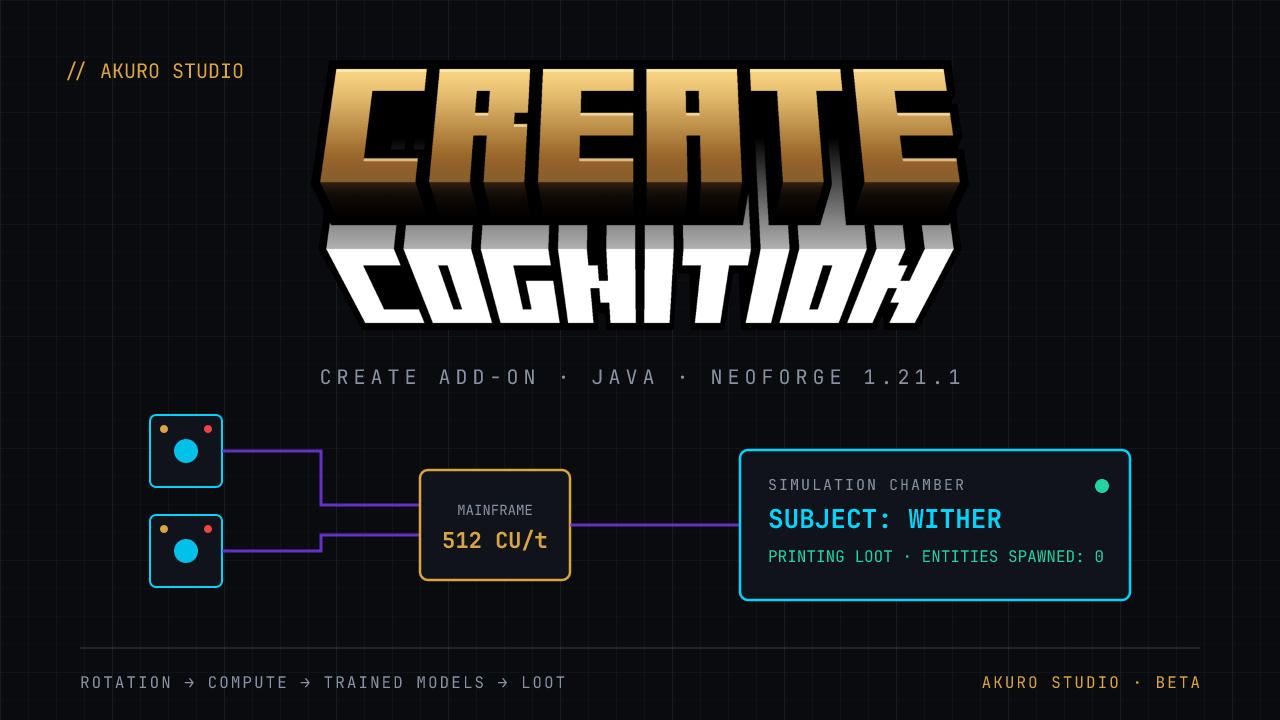
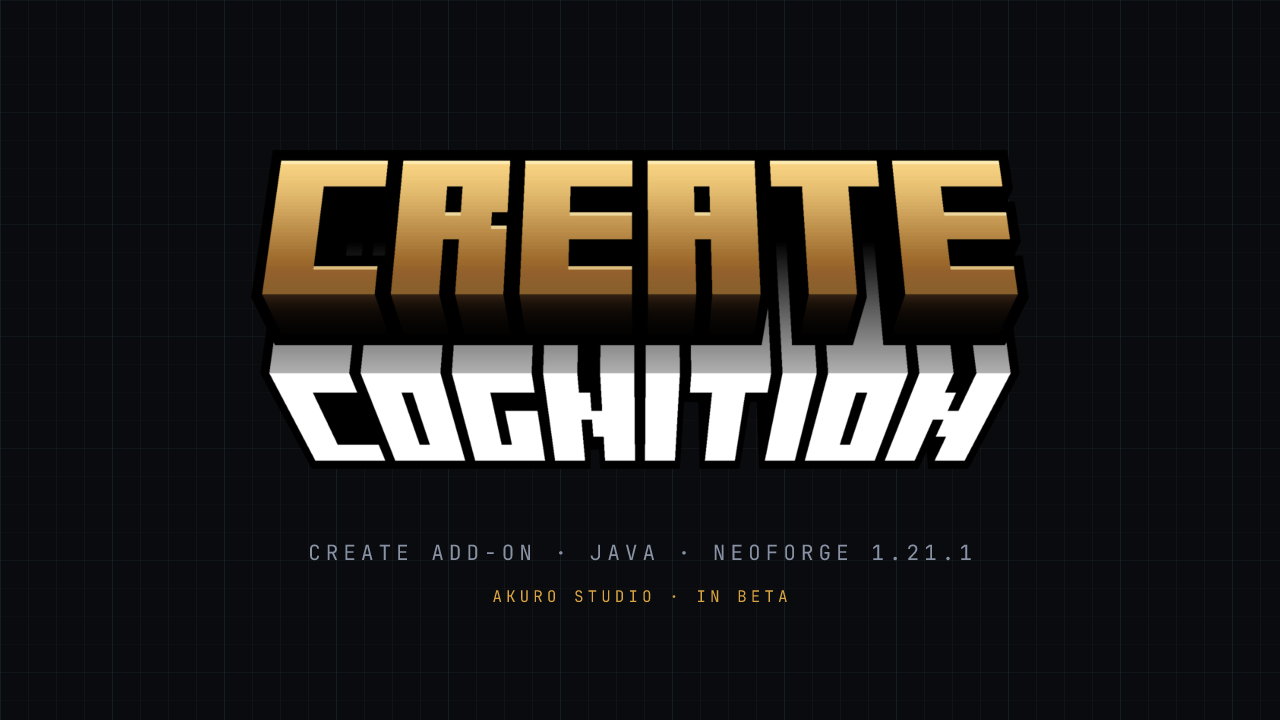
Drop invented card imagery; real assets or placeholders only
Mock dashboard/schematic/teaser images read as fabricated product
shots, which games employers dislike. Cards now show real assets
(Off-Road banner, the Create: Cognition splash) or the branded bolt
placeholder. Art script slims to og banner, splash card, and avatar.

diff --git a/src/data/projects.js b/src/data/projects.js
@@ -32,7 +32,7 @@ export const projects = [
     description:
       'A first-person horror game I\'m building solo in Unity, set on a derelict space station. You move through it on foot, watching for anomalies while the station\'s sensors and upkeep tasks keep pulling your attention away. Early in development.',
     tags: ['Unity', 'C#', 'Horror', 'First-Person', 'In Development'],
-    image: '/images/black-signal-teaser.png',
+    image: null,
     featured: false,
     links: {},
   },
@@ -43,7 +43,7 @@ export const projects = [
     description:
       'A League of Legends stats site built in C# and ASP.NET for a web development course. A WCF service layer wraps the Riot Games API for Riot ID lookup, total champion mastery, and last-match stats, behind member and staff login flows with reCAPTCHA verification.',
     tags: ['C#', 'ASP.NET', 'Riot Games API', 'Web'],
-    image: '/images/league-stats-portal.png',
+    image: null,
     featured: false,
     links: {},
   },
@@ -54,7 +54,7 @@ export const projects = [
     description:
       'Trackside lap timing for ASU\'s Formula SAE racing team. An infrared gate detects the car each lap and feeds the team\'s data acquisition pipeline for on-track performance analysis. Built, tested, and iterated on real race weekends across three seasons.',
     tags: ['Embedded', 'Hardware', 'Telemetry', 'FSAE'],
-    image: '/images/lap-timing.png',
+    image: null,
     featured: false,
     links: {},
   },

diff --git a/src/components/ProjectCard.jsx b/src/components/ProjectCard.jsx
@@ -1,7 +1,7 @@
 import { useRef } from 'react'
 import { Link } from 'react-router-dom'
 import { motion } from 'framer-motion'
-import { UnityIcon, ItchIcon, GitHubIcon } from './Icons'
+import { BoltIcon, ItchIcon, GitHubIcon } from './Icons'
 import styles from './ProjectCard.module.css'
 
 function useTilt() {
@@ -51,7 +51,7 @@ export default function ProjectCard({ project, index = 0 }) {
         {image ? (
           <img src={image} alt={title} loading="lazy" />
         ) : (
-          <div className={styles.thumbPlaceholder}><UnityIcon size={64} /></div>
+          <div className={styles.thumbPlaceholder}><BoltIcon size={48} /></div>
         )}
       </div>
 